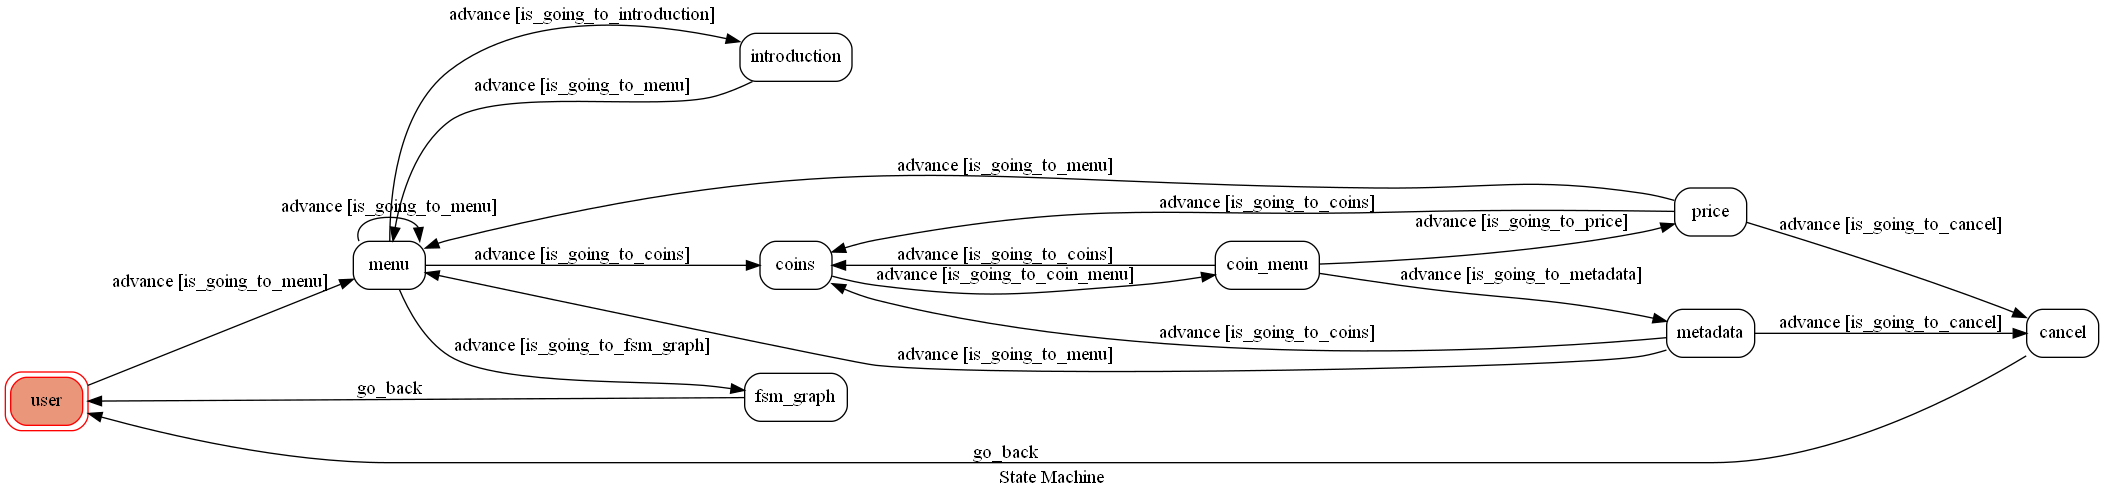
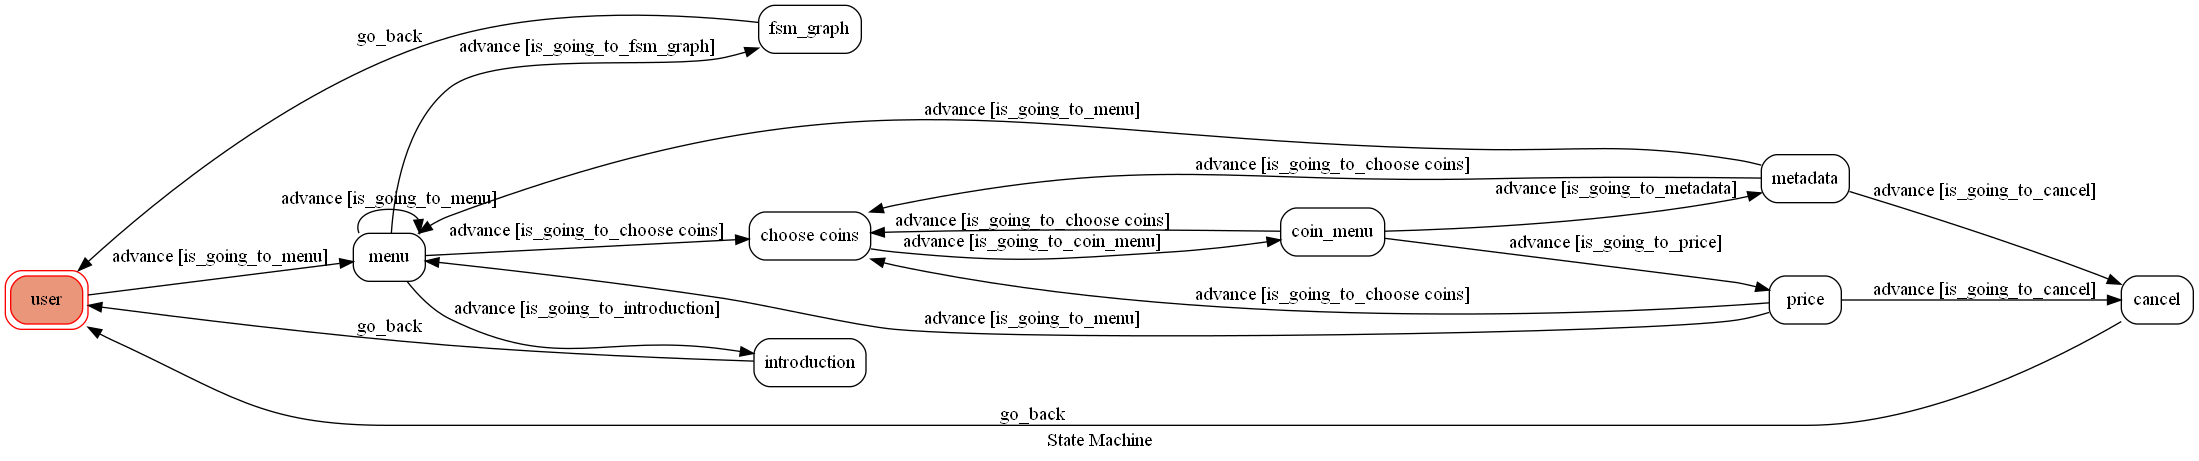
Update message_json.py file and change the transition

diff --git a/app.py b/app.py
@@ -15,7 +15,7 @@ from utils import send_text_message
 load_dotenv()
 
 machine = TocMachine(
-    states=["user", "menu", "coins", "coin_menu", "price", "metadata", "fsm_graph", "introduction", "cancel"],
+    states=["user", "menu", "choose coins", "coin_menu", "price", "metadata", "fsm_graph", "introduction", "cancel"],
     transitions=[
         {
             "trigger": "advance",
@@ -32,20 +32,20 @@ machine = TocMachine(
         {
             "trigger": "advance",
             "source": "menu",
-            "dest": "coins",
-            "conditions": "is_going_to_coins",
+            "dest": "choose coins",
+            "conditions": "is_going_to_choose coins",
         },
         {
             "trigger": "advance",
-            "source": "coins",
+            "source": "choose coins",
             "dest": "coin_menu",
             "conditions": "is_going_to_coin_menu",
         },
         {
             "trigger": "advance",
             "source": "coin_menu",
-            "dest": "coins",
-            "conditions": "is_going_to_coins",
+            "dest": "choose coins",
+            "conditions": "is_going_to_choose coins",
         },
         {
             "trigger": "advance",
@@ -80,8 +80,8 @@ machine = TocMachine(
         {
             "trigger": "advance",
             "source": "price",
-            "dest": "coins",
-            "conditions": "is_going_to_coins",
+            "dest": "choose coins",
+            "conditions": "is_going_to_choose coins",
         },
         {
             "trigger": "advance",
@@ -98,8 +98,8 @@ machine = TocMachine(
         {
             "trigger": "advance",
             "source": "metadata",
-            "dest": "coins",
-            "conditions": "is_going_to_coins",
+            "dest": "choose coins",
+            "conditions": "is_going_to_choose coins",
         },
         {
             "trigger": "advance",

diff --git a/fsm.py b/fsm.py
@@ -22,7 +22,7 @@ class TocMachine(GraphMachine):
         curr_coin = event.message.text
         return True
 
-    def is_going_to_coins(self, event):
+    def is_going_to_choose_coins(self, event):
         text = event.message.text
         return 'coins' in text.lower()
 
@@ -52,7 +52,7 @@ class TocMachine(GraphMachine):
         line_bot_api = LineBotApi(os.getenv('LINE_CHANNEL_ACCESS_TOKEN'))
         line_bot_api.reply_message(reply_token, reply_message)
 
-    def on_enter_coins(self, event):
+    def on_enter_choose_coins(self, event):
         global curr_coin
         curr_coin = ''
         reply_token = event.reply_token
@@ -72,7 +72,7 @@ class TocMachine(GraphMachine):
         reply_token = event.reply_token
         coin_price = get_coin_price(curr_coin)
         if not coin_price:
-            reply_message = FlexSendMessage("not found", message_json.not_found)
+            reply_message = FlexSendMessage("not found", message_json.not_found_coin_menu)
             line_bot_api = LineBotApi(os.getenv('LINE_CHANNEL_ACCESS_TOKEN'))
             line_bot_api.reply_message(reply_token, reply_message)
         else:
@@ -94,7 +94,7 @@ class TocMachine(GraphMachine):
         reply_token = event.reply_token
         coin_data = get_coin_metadata(curr_coin)
         if not coin_data:
-            reply_message = FlexSendMessage("not found", message_json.not_found)
+            reply_message = FlexSendMessage("not found", message_json.not_found_coin_menu)
             line_bot_api = LineBotApi(os.getenv('LINE_CHANNEL_ACCESS_TOKEN'))
             line_bot_api.reply_message(reply_token, reply_message)
         else:

diff --git a/message_json.py b/message_json.py
@@ -980,7 +980,7 @@ cancel = {
     }
 }
 
-not_found = {
+not_found_coin_menu = {
     "type": "bubble",
     "header": {
         "type": "box",
